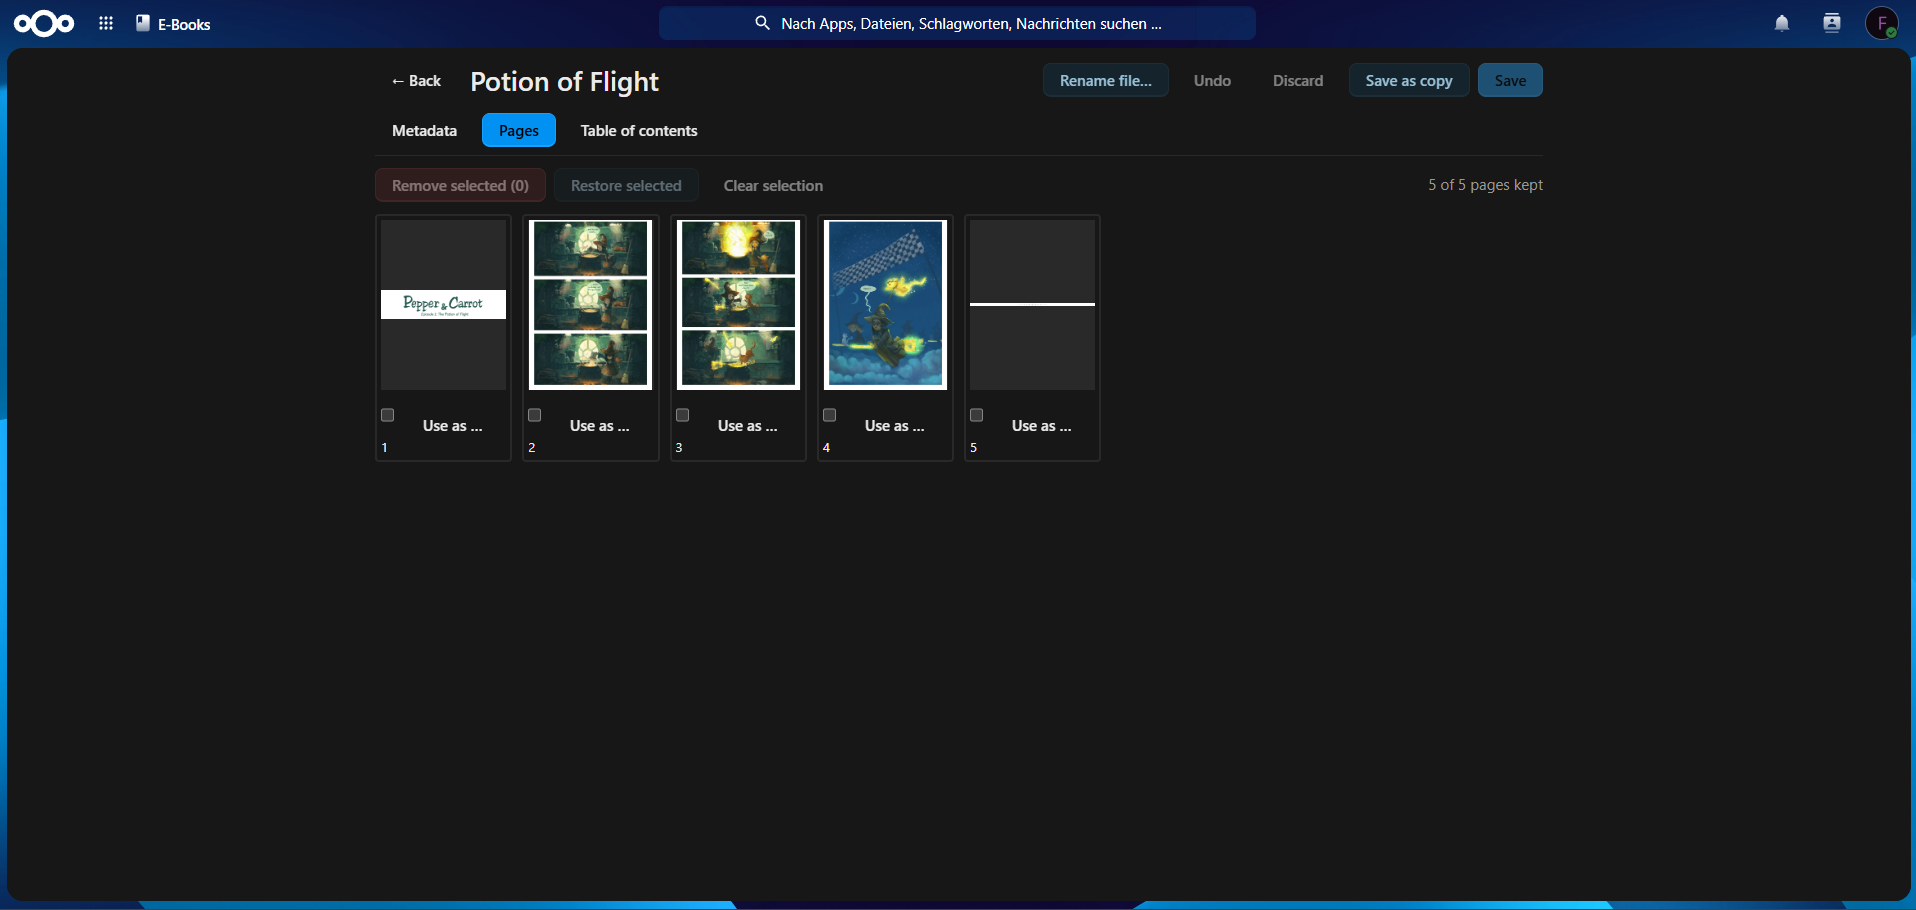
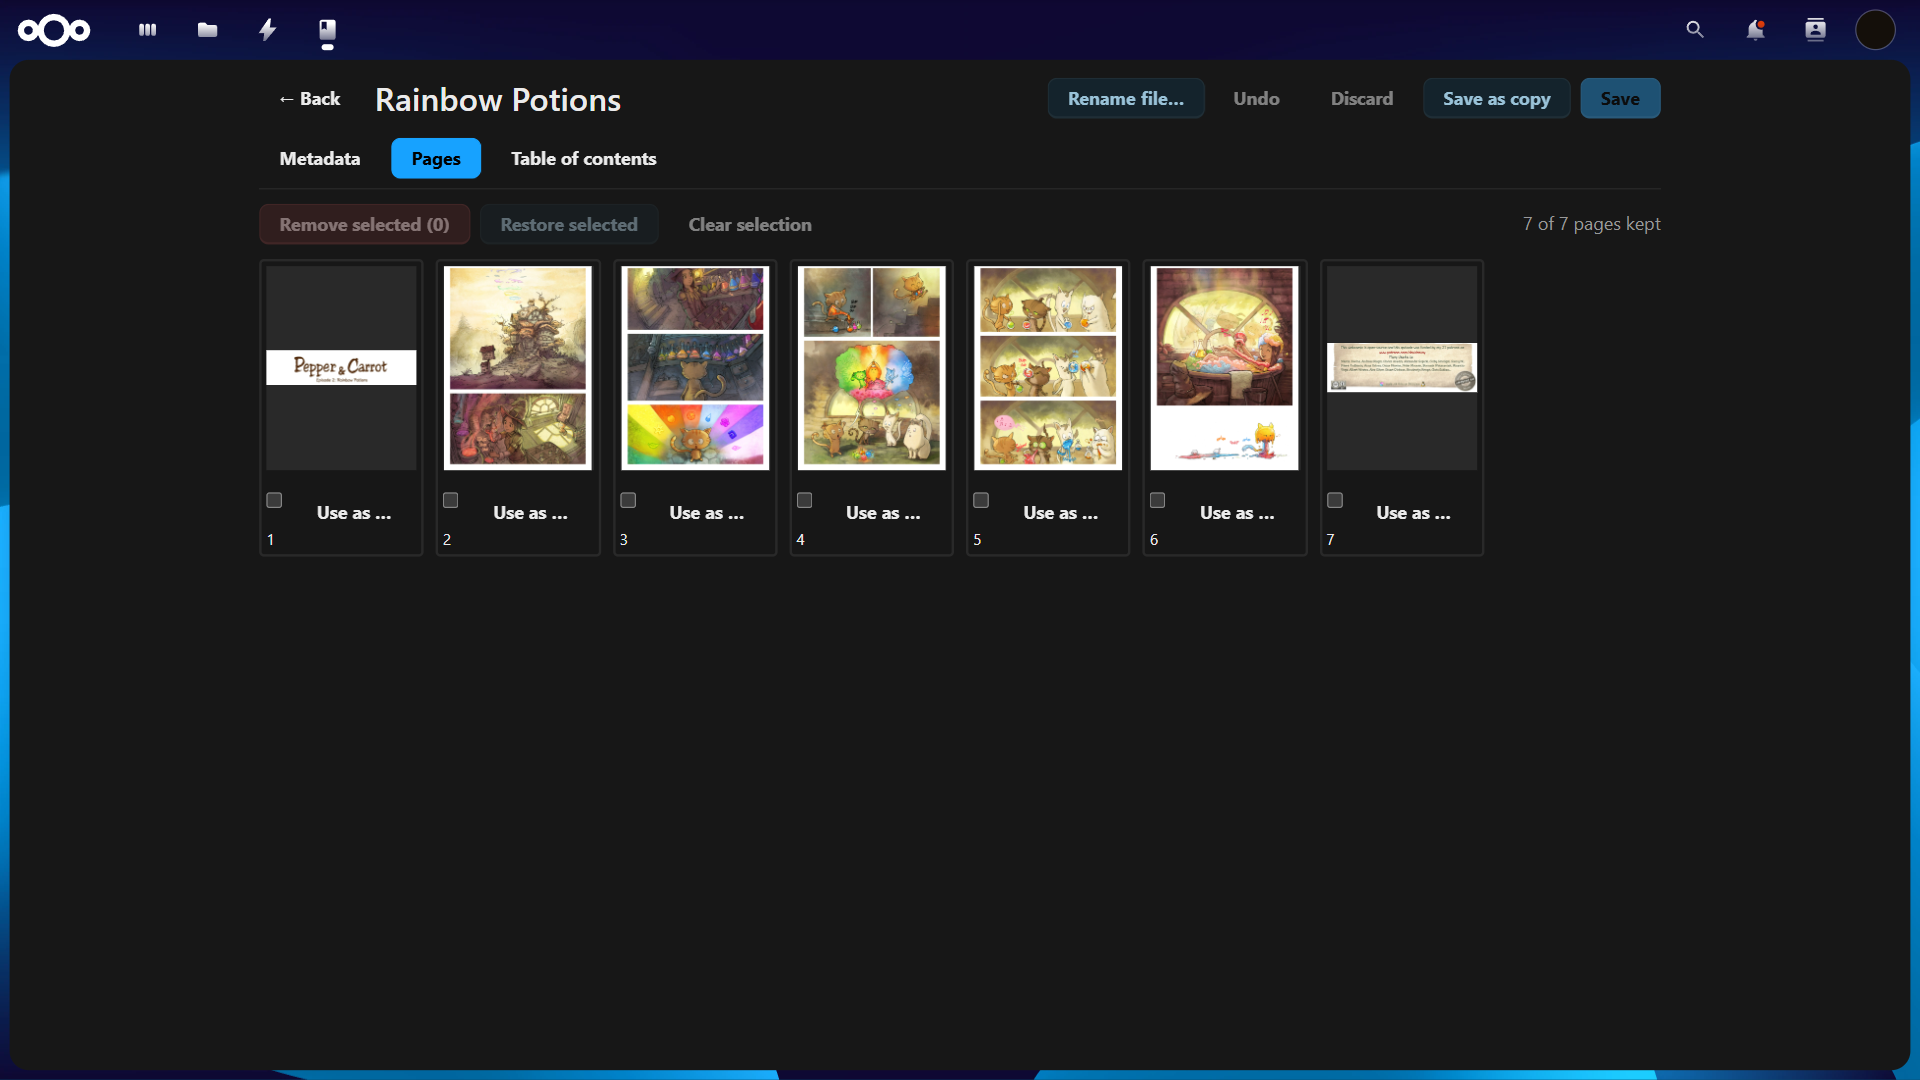
Take new screenshots in Nextcloud Playground
New screenshots for the README and the App Store (1920 x 1080), taken in
Nextcloud Playground with the free sample books: library with book
details, comic reader, page editor, and new: e-book reader with table of
contents, series with its volumes. info.xml lists all five.

diff --git a/docs/translations/README.de.md b/docs/translations/README.de.md
@@ -17,7 +17,11 @@ Bibliothek, Reader und Editor für E-Books und Comics direkt in deiner Nextcloud
 
 ![Seiten-Editor eines Comics](../screenshot-editor.png)
 
-<sub>Die Screenshots zeigen [Pepper&amp;Carrot](https://www.peppercarrot.com) von David Revoy, lizenziert unter [CC BY 4.0](https://creativecommons.org/licenses/by/4.0/deed.de).</sub>
+![E-Book-Reader mit Inhaltsverzeichnis](../screenshot-epub.png)
+
+![Serie mit ihren Bänden](../screenshot-series.png)
+
+<sub>Die Screenshots zeigen [Pepper&amp;Carrot](https://www.peppercarrot.com) von David Revoy, lizenziert unter [CC BY 4.0](https://creativecommons.org/licenses/by/4.0/deed.de), und gemeinfreie Bücher von [Project Gutenberg](https://www.gutenberg.org).</sub>
 
 > [!NOTE]
 > **Beta.** Die App wird produktiv mit einer großen Bibliothek (E-Books und Comics bis 400 MB) eingesetzt und ist durch automatische Tests abgedeckt. Bis zur Version 1.0 können sich Details noch ändern. Der Editor verändert Dateien. Nextcloud legt dabei zwar automatisch eine Version an, ein Backup deiner Bücher schadet trotzdem nicht.

diff --git a/README.md b/README.md
@@ -17,7 +17,11 @@ It is a regular Nextcloud app (PHP backend, Vue frontend). It needs no extra con
 
 ![Page editor of a comic](docs/screenshot-editor.png)
 
-<sub>Screenshots show [Pepper&amp;Carrot](https://www.peppercarrot.com) by David Revoy, licensed under [CC BY 4.0](https://creativecommons.org/licenses/by/4.0/).</sub>
+![E-book reader with table of contents](docs/screenshot-epub.png)
+
+![Series with its volumes](docs/screenshot-series.png)
+
+<sub>Screenshots show [Pepper&amp;Carrot](https://www.peppercarrot.com) by David Revoy, licensed under [CC BY 4.0](https://creativecommons.org/licenses/by/4.0/), and public-domain books from [Project Gutenberg](https://www.gutenberg.org).</sub>
 
 > [!NOTE]
 > **Beta.** The app is in daily production use with a large library (e-books and comics up to 400 MB) and covered by automated tests. Details may still change before 1.0. The editor modifies files; Nextcloud keeps a version of every change, but a backup of your books is still a good idea.

diff --git a/CHANGELOG.md b/CHANGELOG.md
@@ -5,6 +5,9 @@ Das Format folgt [Keep a Changelog](https://keepachangelog.com/de/1.1.0/), die V
 
 ## [Unreleased]
 
+### Geändert
+- Neue Screenshots für README und App Store, aufgenommen im Nextcloud Playground mit den freien Beispielbüchern: Bibliothek, Comic-Reader, Seiten-Editor und neu E-Book-Reader mit Inhaltsverzeichnis sowie Serie mit ihren Bänden.
+
 ## 1.0.0 – 2026-10-29
 
 ### Hinzugefügt
